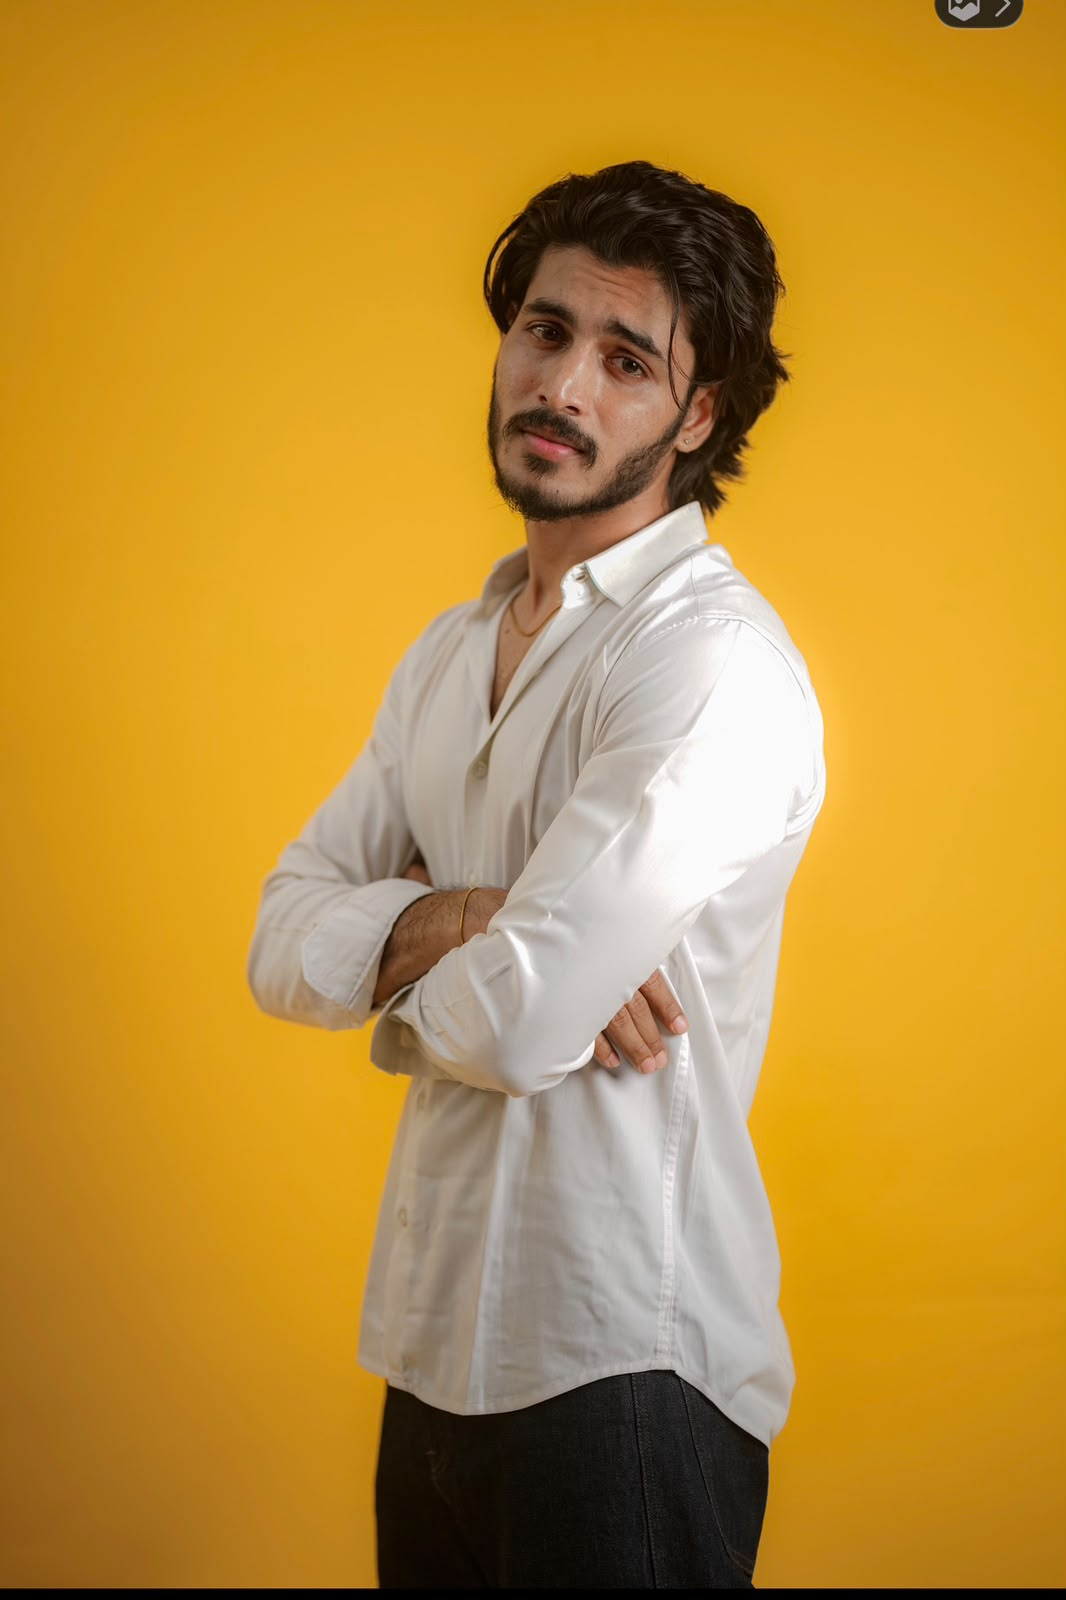
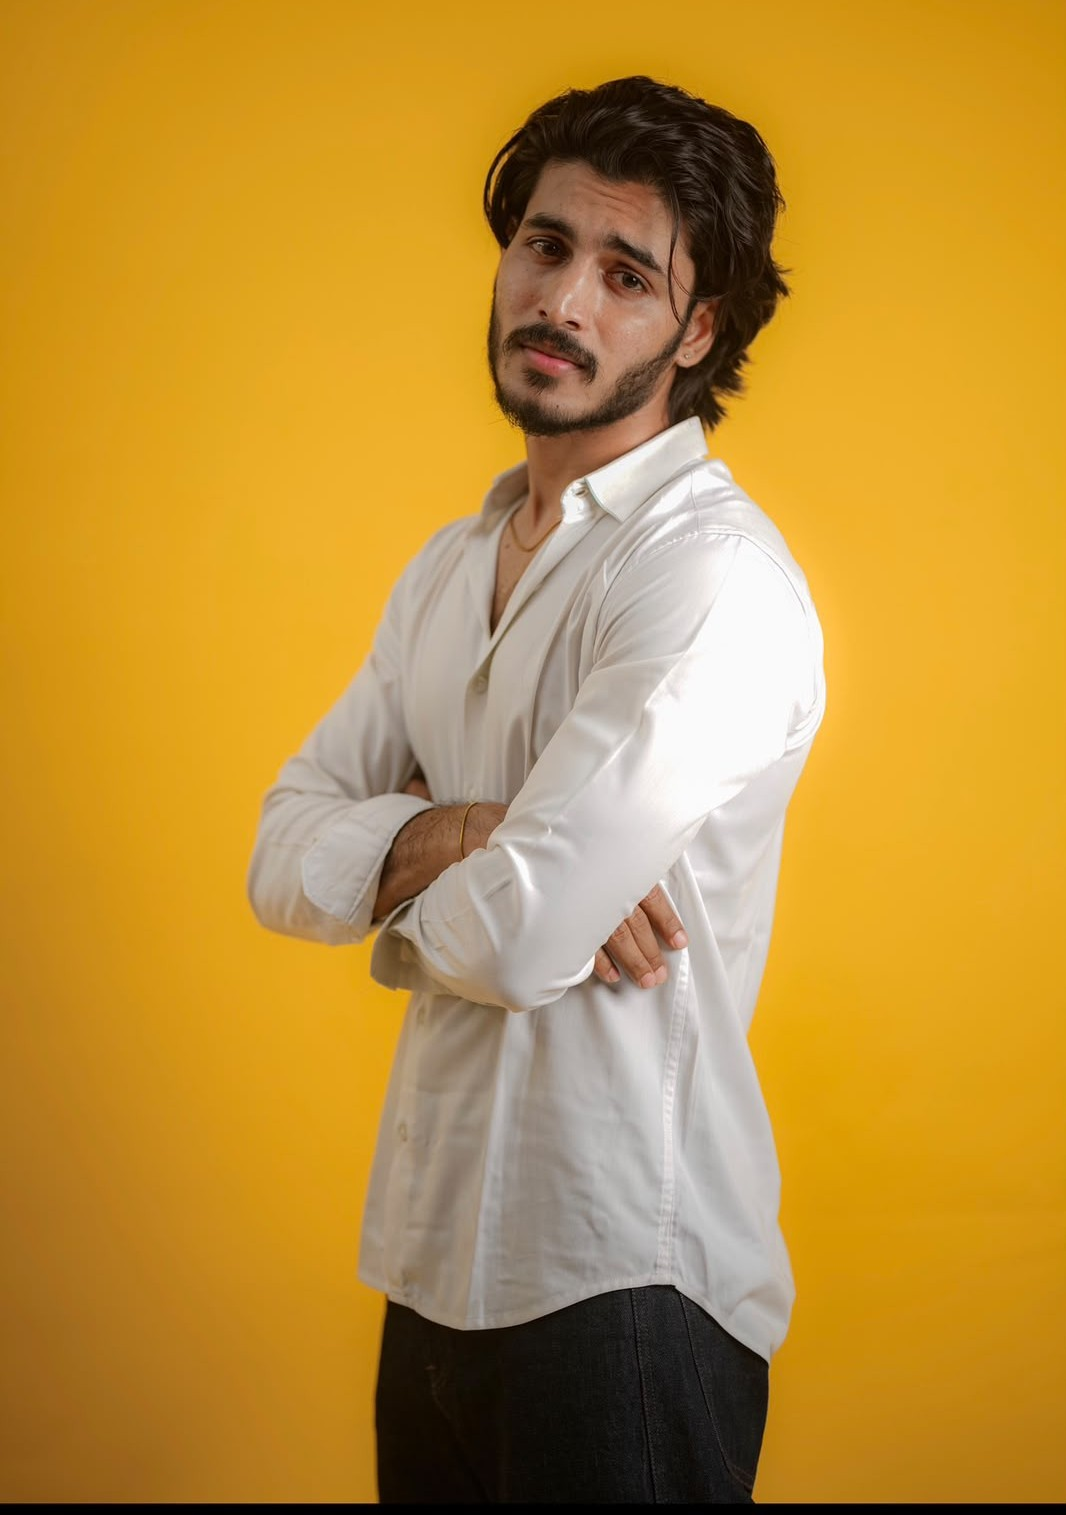
new redesign

diff --git a/index.html b/index.html
@@ -351,9 +351,9 @@
     <section id="reel" class="relative py-24 md:py-40 bg-black">
       <div class="max-w-[1200px] mx-auto px-6 md:px-20 text-center">
         <h2 class="font-display text-5xl md:text-7xl mb-12 reveal-text">Performance Reel</h2>
-        <div class="relative aspect-video w-full rounded-sm overflow-hidden border border-white/10 group cursor-pointer" id="video-container">
+        <div class="relative w-full rounded-sm overflow-hidden border border-white/10 group cursor-pointer" id="video-container">
           <!-- Video -->
-          <video src="./assets/IMG/VDO.mp4" class="w-full h-full object-cover" muted loop playsinline id="showreel-video"></video>
+          <video src="./assets/IMG/VDO.mp4" class="w-full h-auto block" muted loop playsinline id="showreel-video"></video>
           <!-- Overlay -->
           <div class="absolute inset-0 bg-black/30 flex items-center justify-center transition-all duration-500 group-hover:bg-black/10" id="video-overlay">
             <button class="w-20 h-20 rounded-full border border-gold flex items-center justify-center text-gold backdrop-blur-sm hover:scale-110 transition-transform duration-300" id="play-btn">
